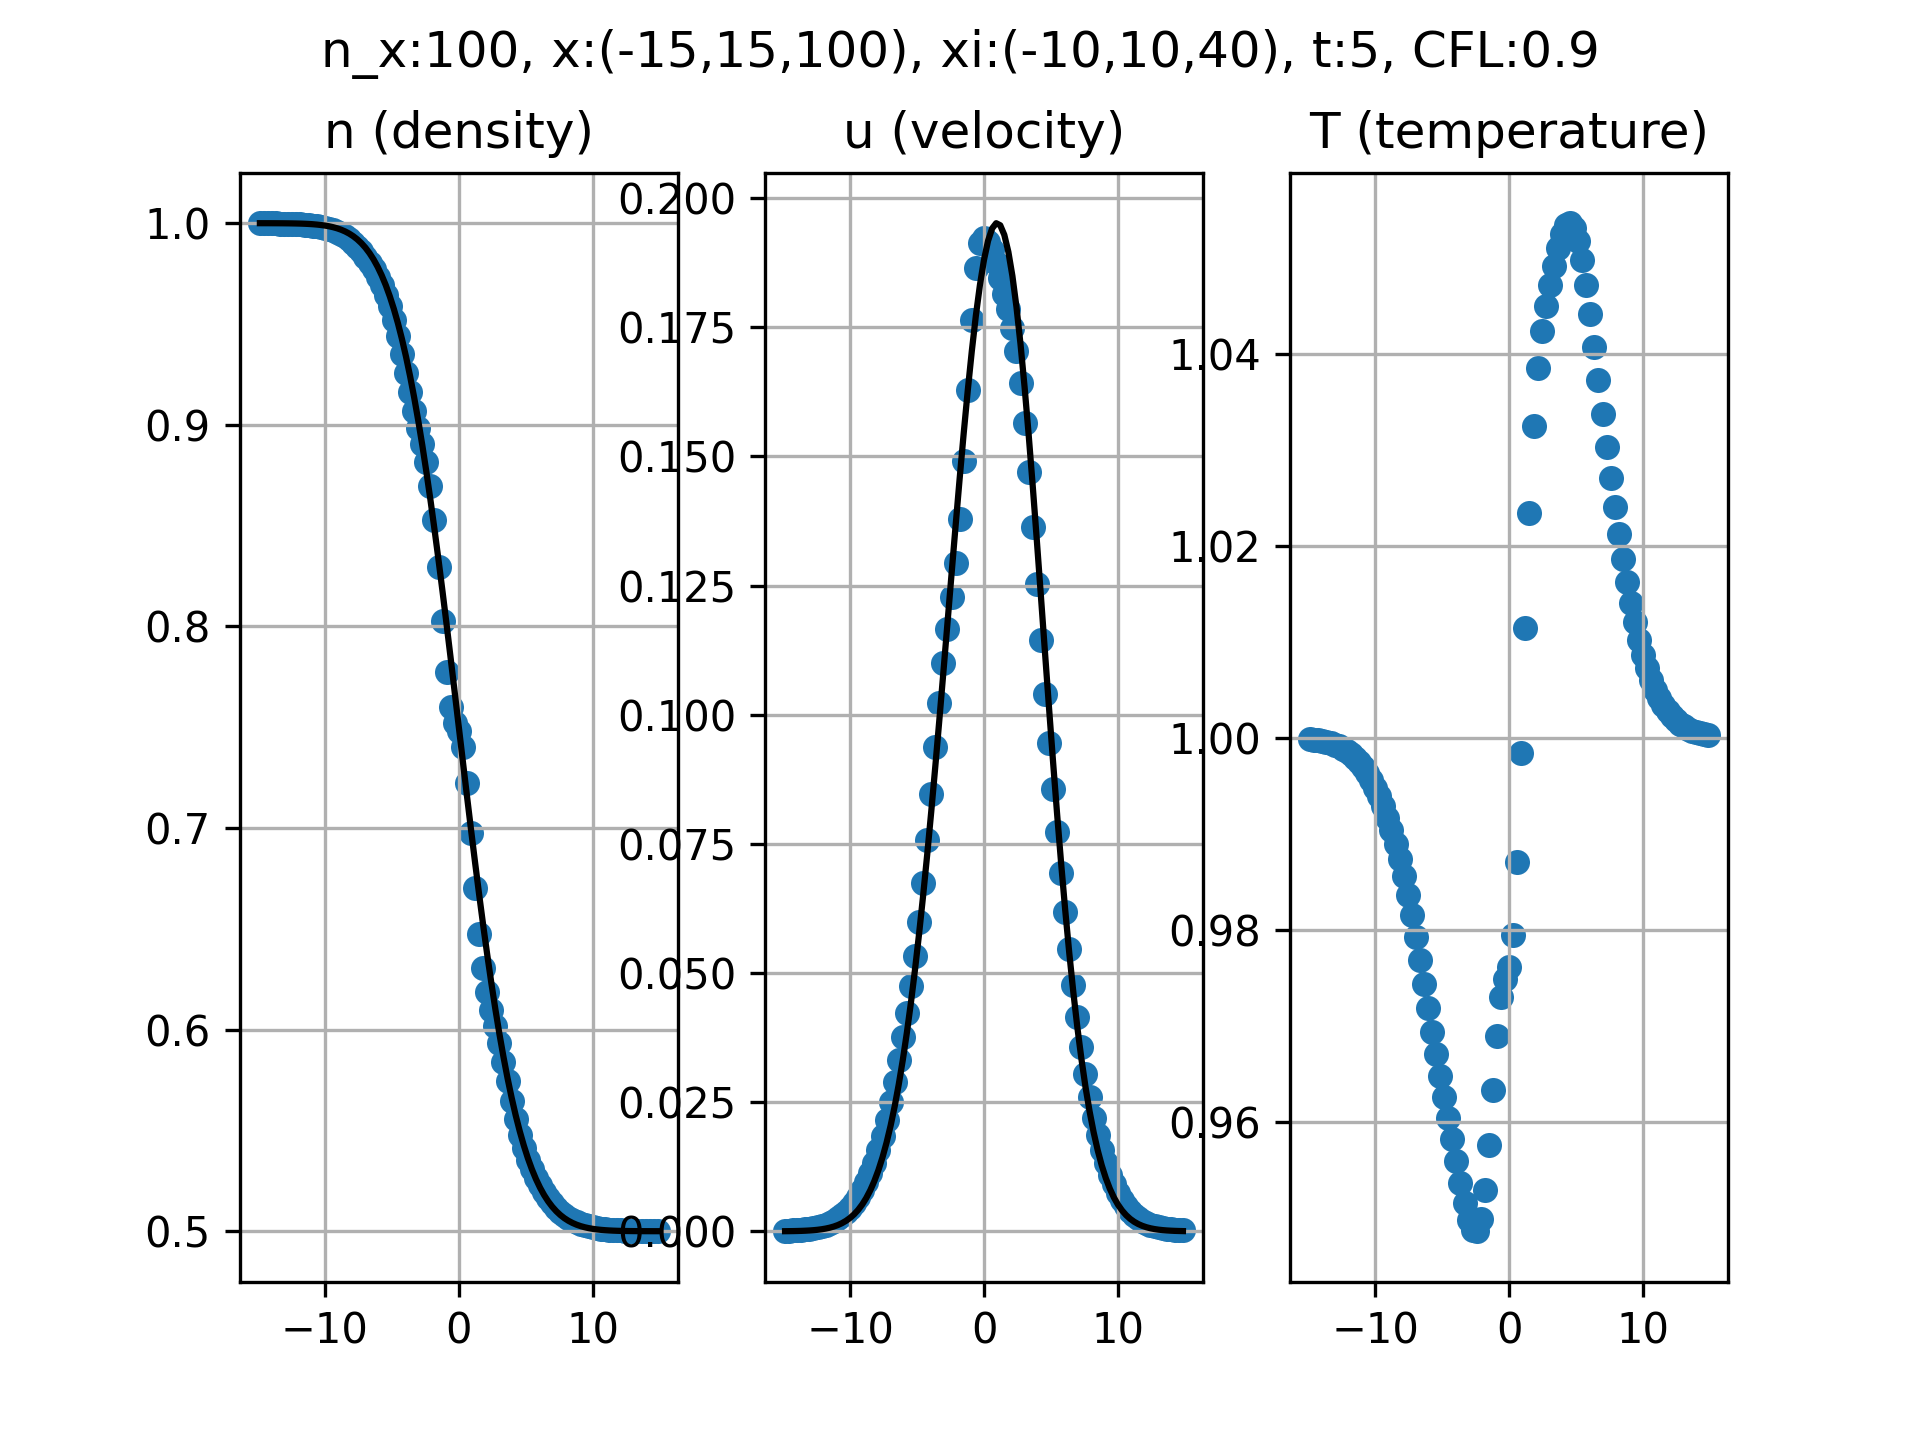
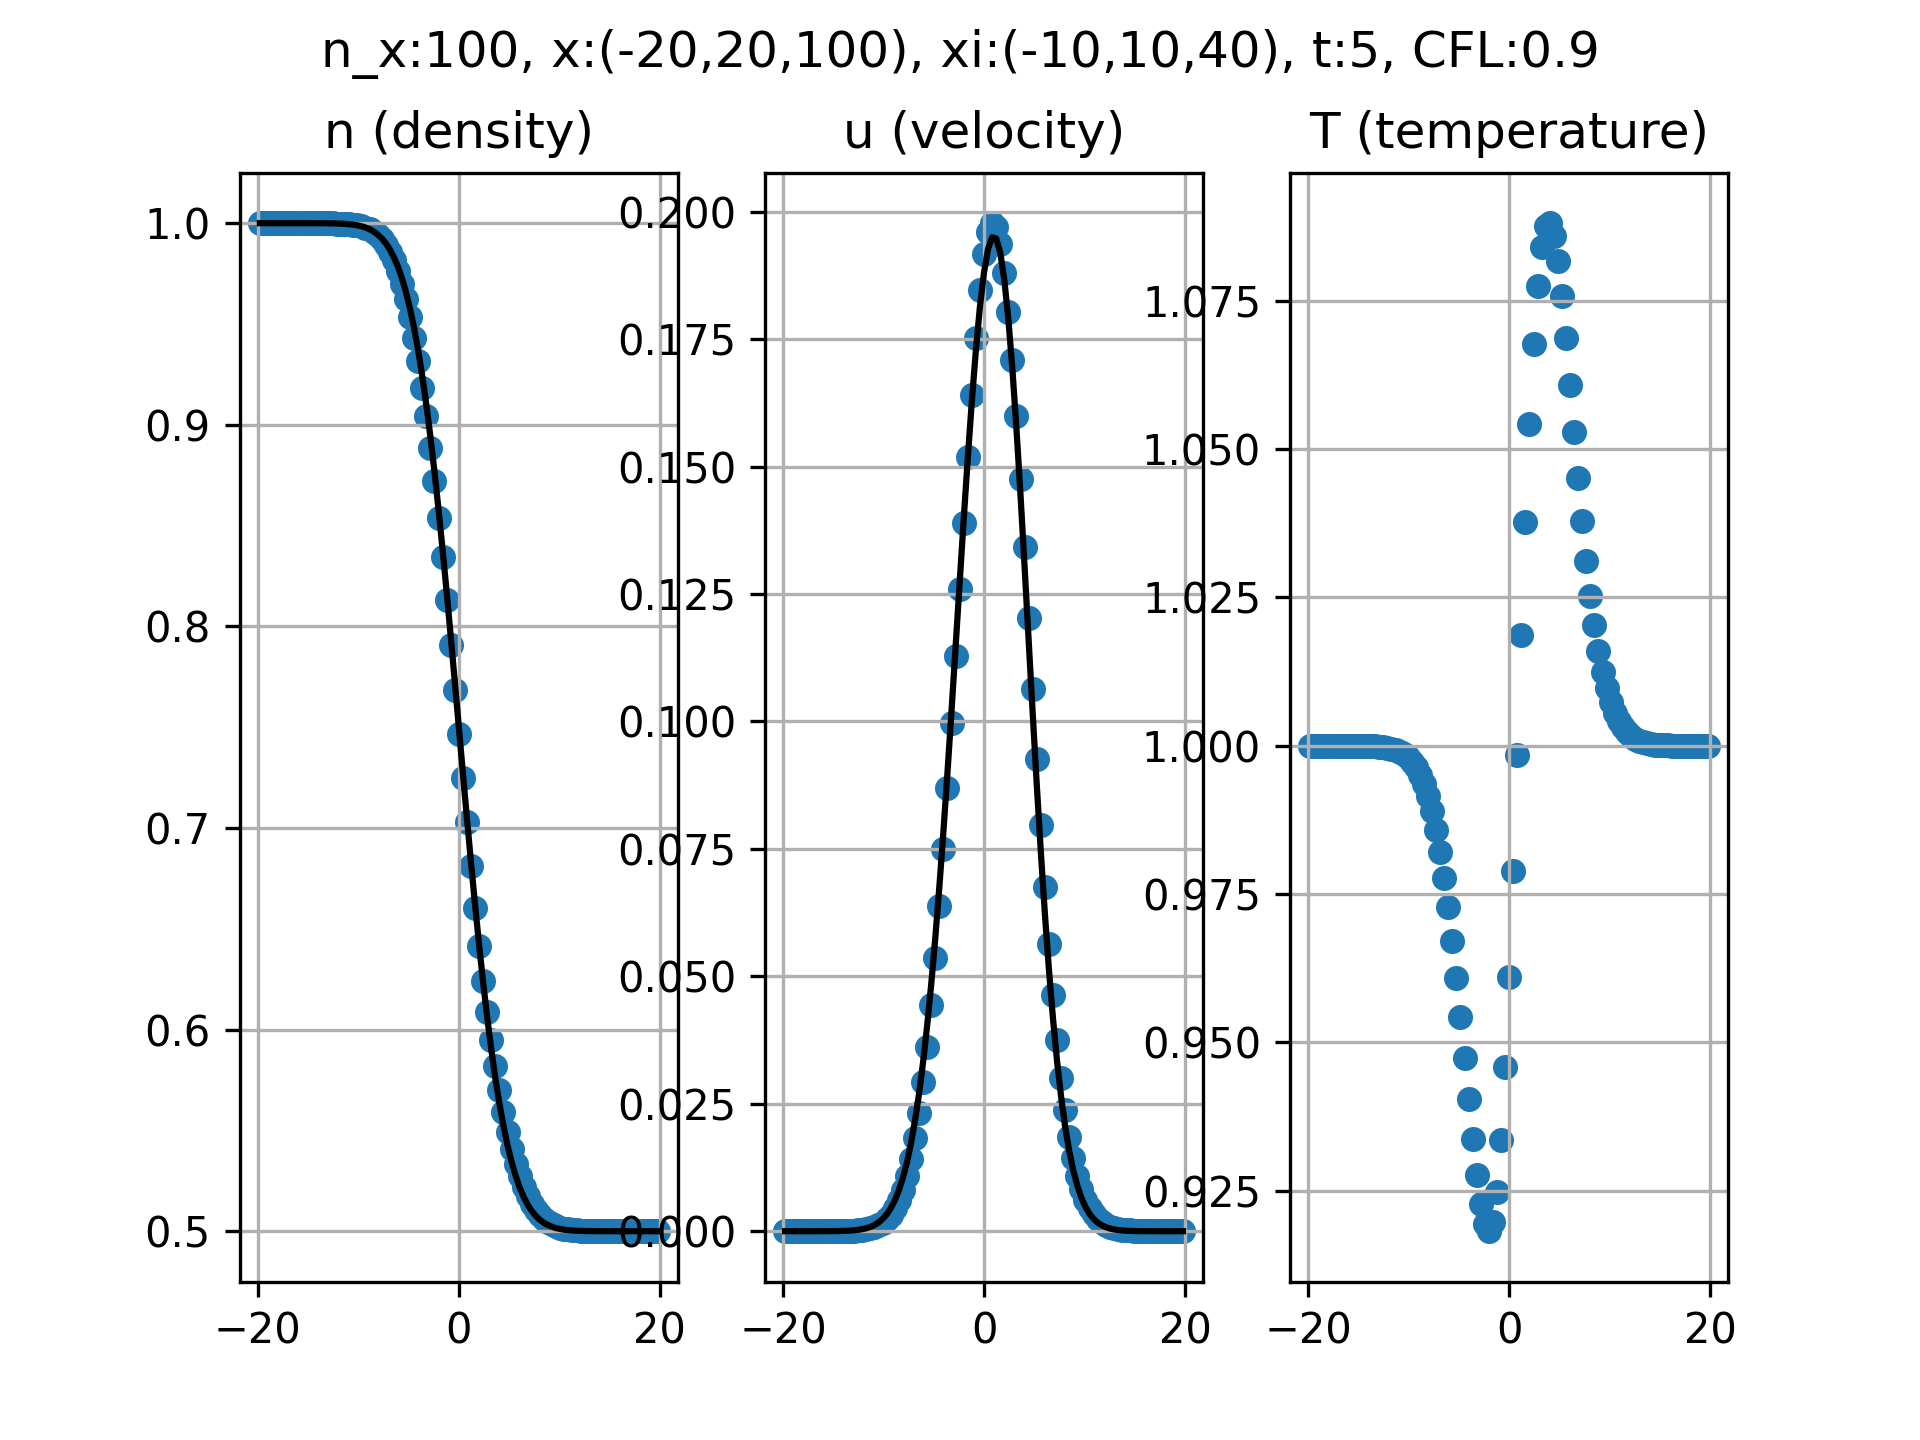
Добавил правую часть

diff --git a/src/thermodynamics.py b/src/thermodynamics.py
@@ -1,5 +1,6 @@
 import numpy as np
 
+
 class BKG:
     def __init__(self, config: dict):
         """
@@ -51,6 +52,7 @@ class BKG:
         return np.sum(self.F[1:-1] * self.xi_cell_size**3, axis=(1, 2, 3))
 
     def get_u1(self, n):
+        # Нет проверки на деление на 0. Можно return np.where(n > 0, u/n, 0.0)
         return np.sum(self.XI1 * self.F[1:-1] * (self.xi_cell_size ** 3), axis=(1, 2, 3)) / n
 
     def get_T(self, n, u):
@@ -68,46 +70,86 @@ class BKG:
         q = self.get_q(u)
         return n, u, T, q
 
-    def calculate(self, CFL, t_max, step_f):
+    def get_mu(self, T):
+        return T**self.w
+
+    def get_nu(self, n, T):
+        return n * T ** (1-self.w) * 0.9/self.Kn
+    """
+    def calculate(self, CFL, t_max, step_f, right_part=True):
         tau = CFL * self.h / np.max(np.abs(self.xi))
 
         for step_i in range(int(t_max / tau)):
             print(f"calculation: {step_i} / {int(t_max / tau)}")
 
+            if right_part:
+                J = self.get_J()
             for j in range(len(self.xi)):
                 xi_v = self.xi[j]
-                self.F[:, j, :, :] = step_f(self.F[:, j, :, :], self.h, tau, xi_v)
+                if right_part:
+                    self.F[:, j, :, :] = step_f(self.F[:, j, :, :], self.h, tau, xi_v, J[:, j, :, :])
+                else:
+                    self.F[:, j, :, :] = step_f(self.F[:, j, :, :], self.h, tau, xi_v)
 
         last_tau = t_max % tau
-        for j in range(len(self.xi)):
-            xi_v = self.xi[j]
-            self.F[:, j, :, :] = step_f(self.F[:, j, :, :], self.h, last_tau, xi_v)
-
+        if last_tau >= 1e-15:
+            if right_part:
+                J = self.get_J()
+            for j in range(len(self.xi)):
+                xi_v = self.xi[j]
+                if right_part:
+                    self.F[:, j, :, :] = step_f(self.F[:, j, :, :], self.h, last_tau, xi_v, J[:, j, :, :])
+                else:
+                    self.F[:, j, :, :] = step_f(self.F[:, j, :, :], self.h, last_tau, xi_v)
     """
-    def get_mu(self, T, w):
-        return T ** w
-
-    def get_nu(self, n, T, w):
-        return n * T / get_mu(T, w) * 0.9 / Kn
-
-    def get_Fs(self):
-        pass
-    """
-
-
-
-
-
-
-
-
+    def calculate(self, CFL, t_max, step_f, right_part=True):
+        t_cur = 0
+        while t_cur < t_max:
+            print(f"calculation: {t_cur} / {t_max}")
+            n, u, T, q = self.get_macros()
+            tau = min(CFL * self.h / np.max(np.abs(self.xi)), 1 / np.max(self.get_nu(n, T)), max(t_max - t_cur, 1e-15))
+            if right_part:
+                J = self.get_J()
+            for j in range(len(self.xi)):
+                xi_v = self.xi[j]
+                if right_part:
+                    self.F[:, j, :, :] = step_f(self.F[:, j, :, :], self.h, tau, xi_v, J[:, j, :, :])
+                else:
+                    self.F[:, j, :, :] = step_f(self.F[:, j, :, :], self.h, tau, xi_v)
+            t_cur += tau
 
 
+    def get_J(self):
+        n, u, T, q = self.get_macros()
+
+        n_4d = n.reshape(-1, 1, 1, 1)
+        u_4d = u.reshape(-1, 1, 1, 1)
+        T_4d = np.maximum(T.reshape(-1, 1, 1, 1), 1e-12)
+        q_4d = q.reshape(-1, 1, 1, 1)
+
+        thermal_velocity_x = self.XI1[None, :, :, :] - u_4d
+        thermal_velocity_y = np.broadcast_to(self.XI2[None, :, :, :], thermal_velocity_x.shape)
+        thermal_velocity_z = np.broadcast_to(self.XI3[None, :, :, :], thermal_velocity_x.shape)
+
+        thermal_velocity = np.stack([thermal_velocity_x,
+                                     thermal_velocity_y,
+                                     thermal_velocity_z], axis=-1)
+
+        sqrtT = np.sqrt(T_4d)
+        c = thermal_velocity / sqrtT[..., None]
+        c_sq = np.sum(c ** 2, axis=-1)
 
 
+        M = np.exp(-c_sq)
+        Z = np.sum(M, axis=(1, 2, 3), keepdims=True) * (self.xi_cell_size ** 3)
+        fM = n_4d * M / Z
+        S = 2 * q_4d / (np.maximum(n_4d, 1e-12) * T_4d ** 1.5)
 
+        shakhov_correction = (4 / 5) * (1 - self.Pr) * S * c[..., 0] * (c_sq - 2.5)
+        fS = fM * (1 + shakhov_correction)
 
+        nu =  self.get_nu(np.maximum(n, 1e-12), T) # T ** (1 - self.w) * (0.9 / self.Kn)
+        nu_4d = nu.reshape(-1, 1, 1, 1)
 
-
-
-
+        J = nu_4d * (fS - self.F[1:-1])
+        return J

diff --git a/main.py b/main.py
@@ -12,11 +12,11 @@ def n_exact(x, t):
 def u_exact(x, t):
     return 1/(4*np.pi**0.5)*np.exp(-(x/t)**2)/n_exact(x, t)
 
-CFL = 0.9
+CFL = 0.3
 t_max = 1
 
 n_x = 100
-n_xi = 60
+n_xi = 40
 
 model_config = {'X_LEFT': X_LEFT, 'X_RIGHT': X_RIGHT, 'n_x': n_x,
                 'XI_LEFT': XI_LEFT, 'XI_RIGHT': XI_RIGHT, 'n_xi': n_xi,
@@ -25,10 +25,11 @@ model_config = {'X_LEFT': X_LEFT, 'X_RIGHT': X_RIGHT, 'n_x': n_x,
 
 model = BKG(model_config)
 solver = SolverGodunov()
-model.calculate(CFL, t_max, solver.step)
+model.calculate(CFL, t_max, solver.step, right_part=True)
+
 
 fig, axs = plt.subplots(1, 3)
-fig.suptitle(f'n_x:{n_x}, x:({X_LEFT},{X_RIGHT},{n_x}), xi:({XI_LEFT},{XI_RIGHT},{n_xi}), t:{t_max}, CFL:{CFL}')
+fig.suptitle(f'n_x:{n_x}, x:({X_LEFT},{X_RIGHT},{n_x}), xi:({XI_LEFT},{XI_RIGHT},{n_xi}), t:{t_max}, CFL:{CFL}_Kn:{TD_KN}')
 n, u, T, q = model.get_macros()
 
 axs[0].set_title('n (density)')
@@ -43,6 +44,7 @@ axs[1].grid()
 
 axs[2].set_title('T (temperature)')
 axs[2].scatter(model.x[:-1]+model.h/2, T, linewidth=0.01)
+axs[2].plot(model.x[:-1]+model.h/2, T, color='blue')
 axs[2].grid()
-plt.savefig(f'infographics/n_x:{n_x}_xi:({XI_LEFT},{XI_RIGHT},{n_xi})_t:{t_max}_CFL:{CFL}.png', dpi=300)
+plt.savefig(f'infographics/n_x:{n_x}_xi:({XI_LEFT},{XI_RIGHT},{n_xi})_t:{t_max}_CFL:{CFL}_Kn:{TD_KN}.png', dpi=300)
 plt.show()

diff --git a/src/solvers.py b/src/solvers.py
@@ -36,31 +36,35 @@ def W_god(u_l, u_r, coef_per=1):
 
 class Solver(ABC):
     @abstractmethod
-    def step(self, F, h, tau, coef_per=1):
+    def step(self, F, h, tau, coef_per=1, J=None):
         pass
 
 
 class SolverGodunov(Solver):
-    def step(self, F, h, tau, coef_per=1):
+    def step(self, F, h, tau, coef_per=1, J=None):
         ZBC(F)
         F_r = F
         F_l = F
         Ws = W_god(F_l[:-1], F_r[1:], coef_per)
         F[1:-1] += coef_per * tau / h * (Ws[:-1] - Ws[1:])
-        return F[:]
+        if J is not None:
+            F[1:-1] += tau * J
+        return F
 
 class SolverKolgan(Solver):
-    def step(self, F, h, tau, coef_per=1):
+    def step(self, F, h, tau, coef_per=1, J=None):
         ZBC(F)
         sigma = minmod(F)
         F_r = F - 0.5 * sigma
         F_l = F + 0.5 * sigma
         Ws = W_god(F_l[:-1], F_r[1:], coef_per)
         F[1:-1] += coef_per * tau / h * (Ws[:-1] - Ws[1:])
-        return F[:]
+        if J is not None:
+            F[1:-1] += tau * J
+        return F
 
 class SolverRK(SolverKolgan):
-    def step(self, F, h, tau, coef_per=1):
+    def step(self, F, h, tau, coef_per=1, J=None):
         F_pred = super().step(F.copy(), h, tau, coef_per)
         F_corr = super().step(F_pred, h, tau, coef_per)
         F_new = 0.5 * (F + F_corr)

diff --git a/config/configuration.py b/config/configuration.py
@@ -1,12 +1,15 @@
 import numpy as np
 
-TD_KN=0.1
+#TD_KN=0.1
+TD_KN = 0.01
 TD_PR=0.72
-TD_W=0.81
+#TD_W=0.81
+TD_W = 1
 
 X_LEFT, X_RIGHT = -20, 20
-XI_LEFT, XI_RIGHT = -10, 10
+XI_LEFT, XI_RIGHT = -20, 20
 
 F_BEG_N = lambda x: 0.75 - 0.25 * np.sign(x)
+#F_BEG_N = lambda x: 1
 F_BEG_U = lambda x: 0
 F_BEG_T = lambda x: 1
